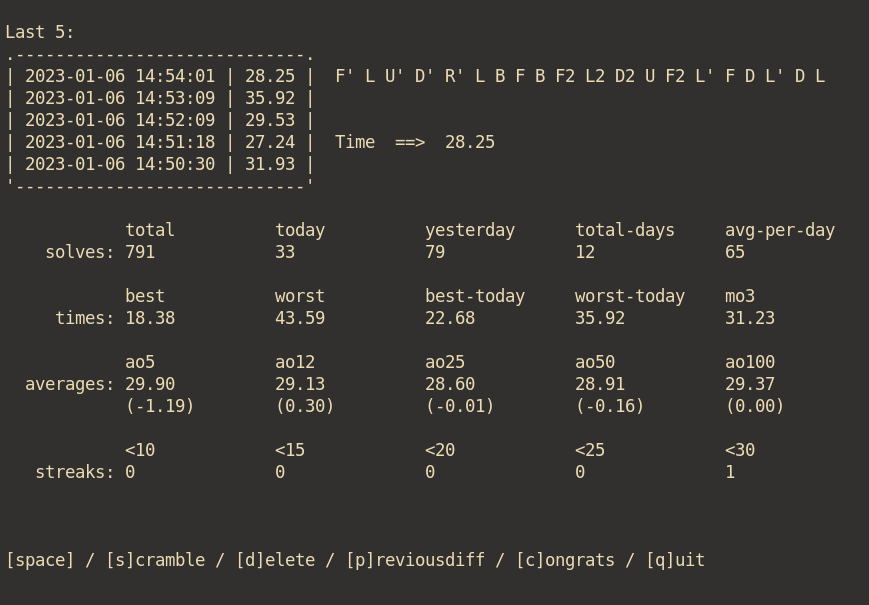
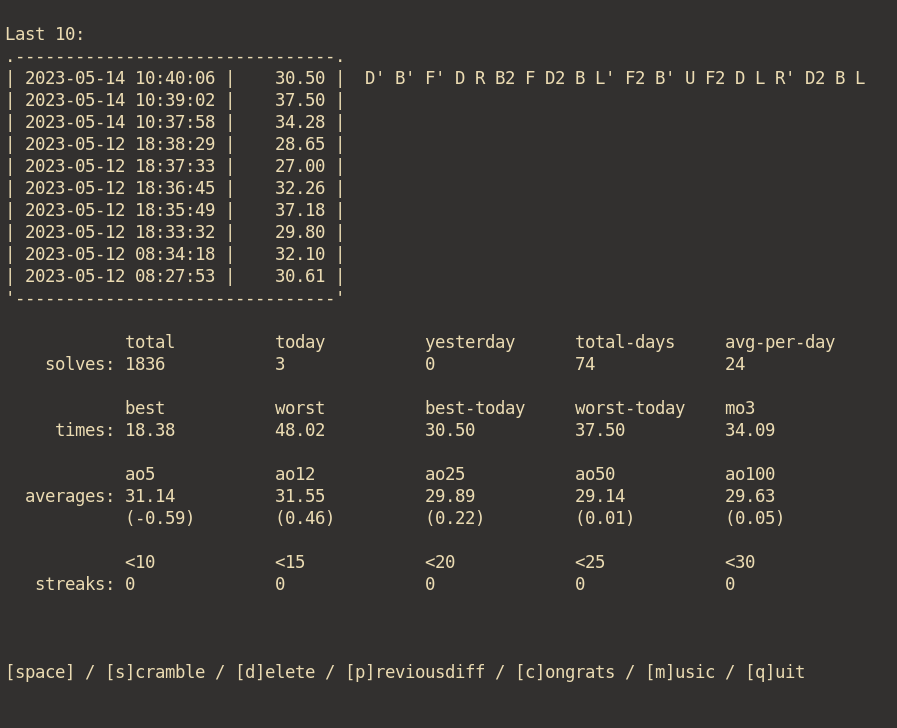
documentation update

diff --git a/README.md b/README.md
@@ -4,6 +4,7 @@
 
 | version | release date | details                                 |
 | ------- | ------------ | --------------------------------------- |
+| v1.0.7  | 14/05/2023   | added streaming music                   |
 | v1.0.6  | 31/01/2023   | date bugfix                             |
 | v1.0.5  | 08/01/2023   | bugfixes for streaks / hatricks <br> handles times over 60 seconds <br> congratulations for every 1000 solves |
 | v1.0.4  | 06/01/2023   | cleanup display output with printf <br> total days <br> average per day <br> congrats message on streaks hatrick |
@@ -40,6 +41,7 @@ If you want to access the program from anywhere, place the following command on 
 
 - GNU bash version 5 and up
 - Mac OS currently not supported
+- mpv (optional, to stream music)
 
 ## Commands
 
@@ -52,6 +54,7 @@ If you want to access the program from anywhere, place the following command on 
 - **p**: toggle showing time difference of \[p\]revious average.
 - **c**: toggle showing \[c\]ongratulations message for streaks hatricks.
 - **1** - **9**: list recorded times (x 5).
+- **m**: stream \[m\]usic.
 - **q**: \[q\]uit.
 
 ## Stats
